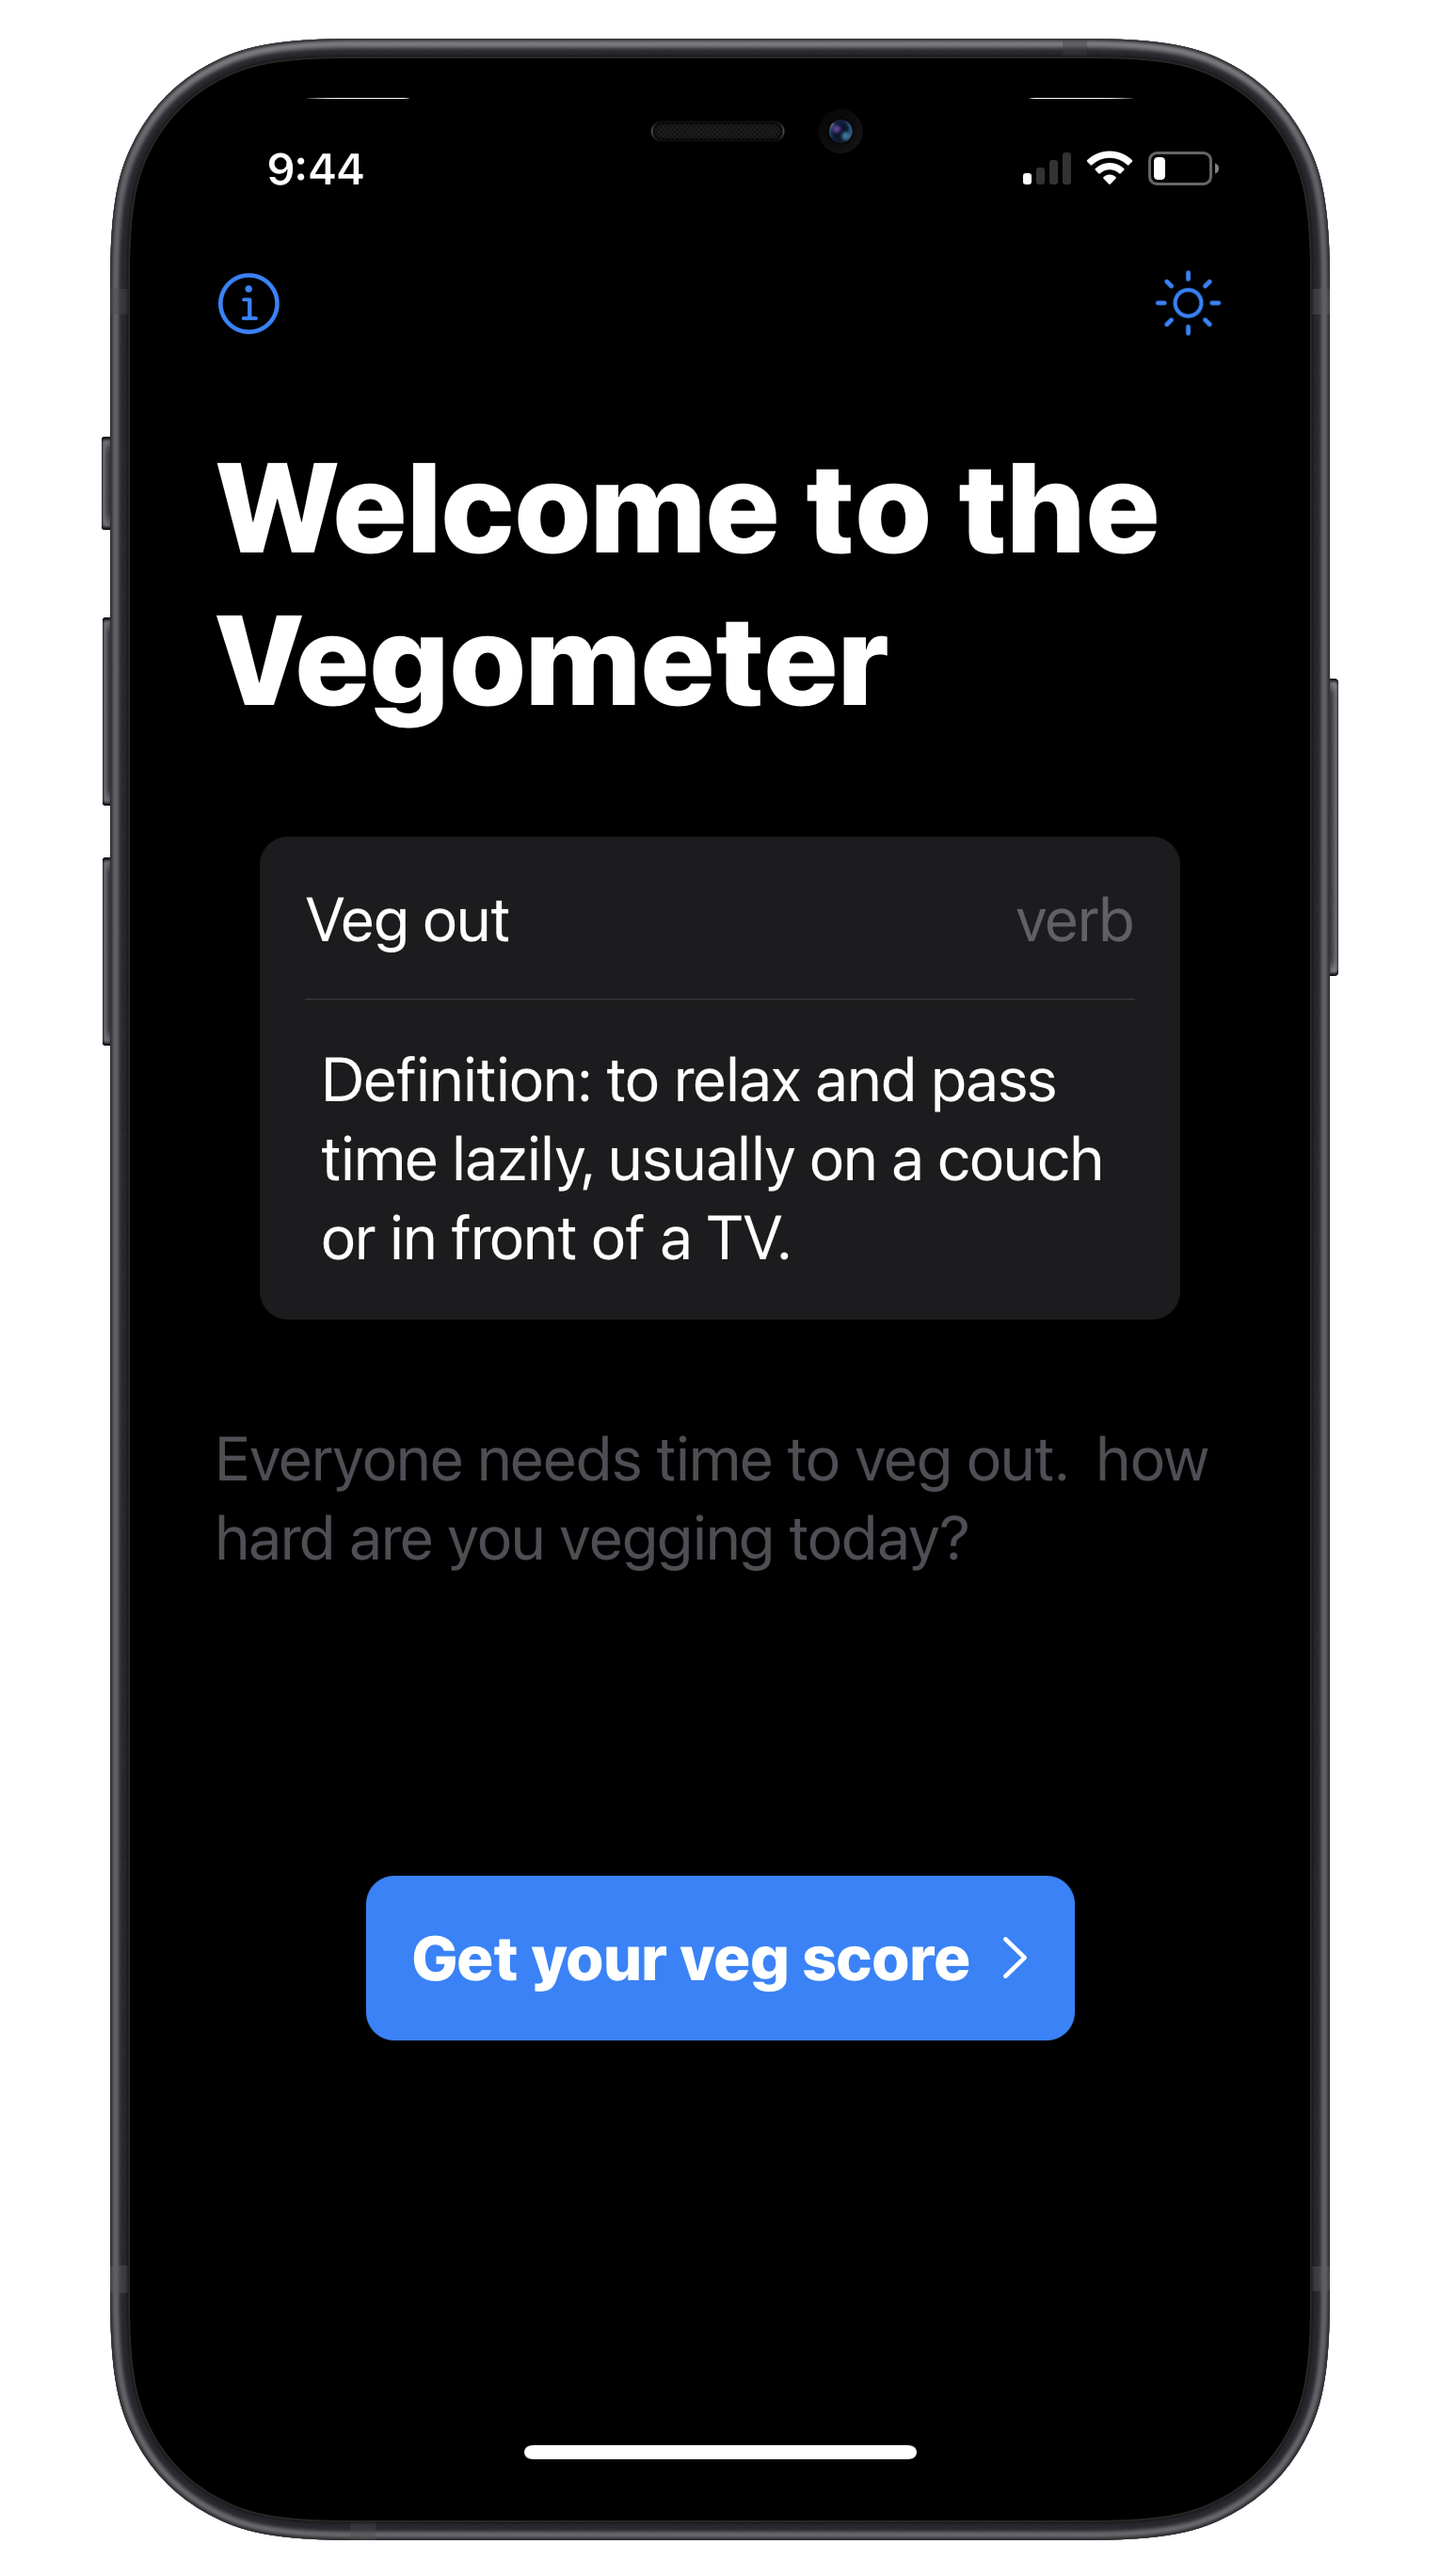
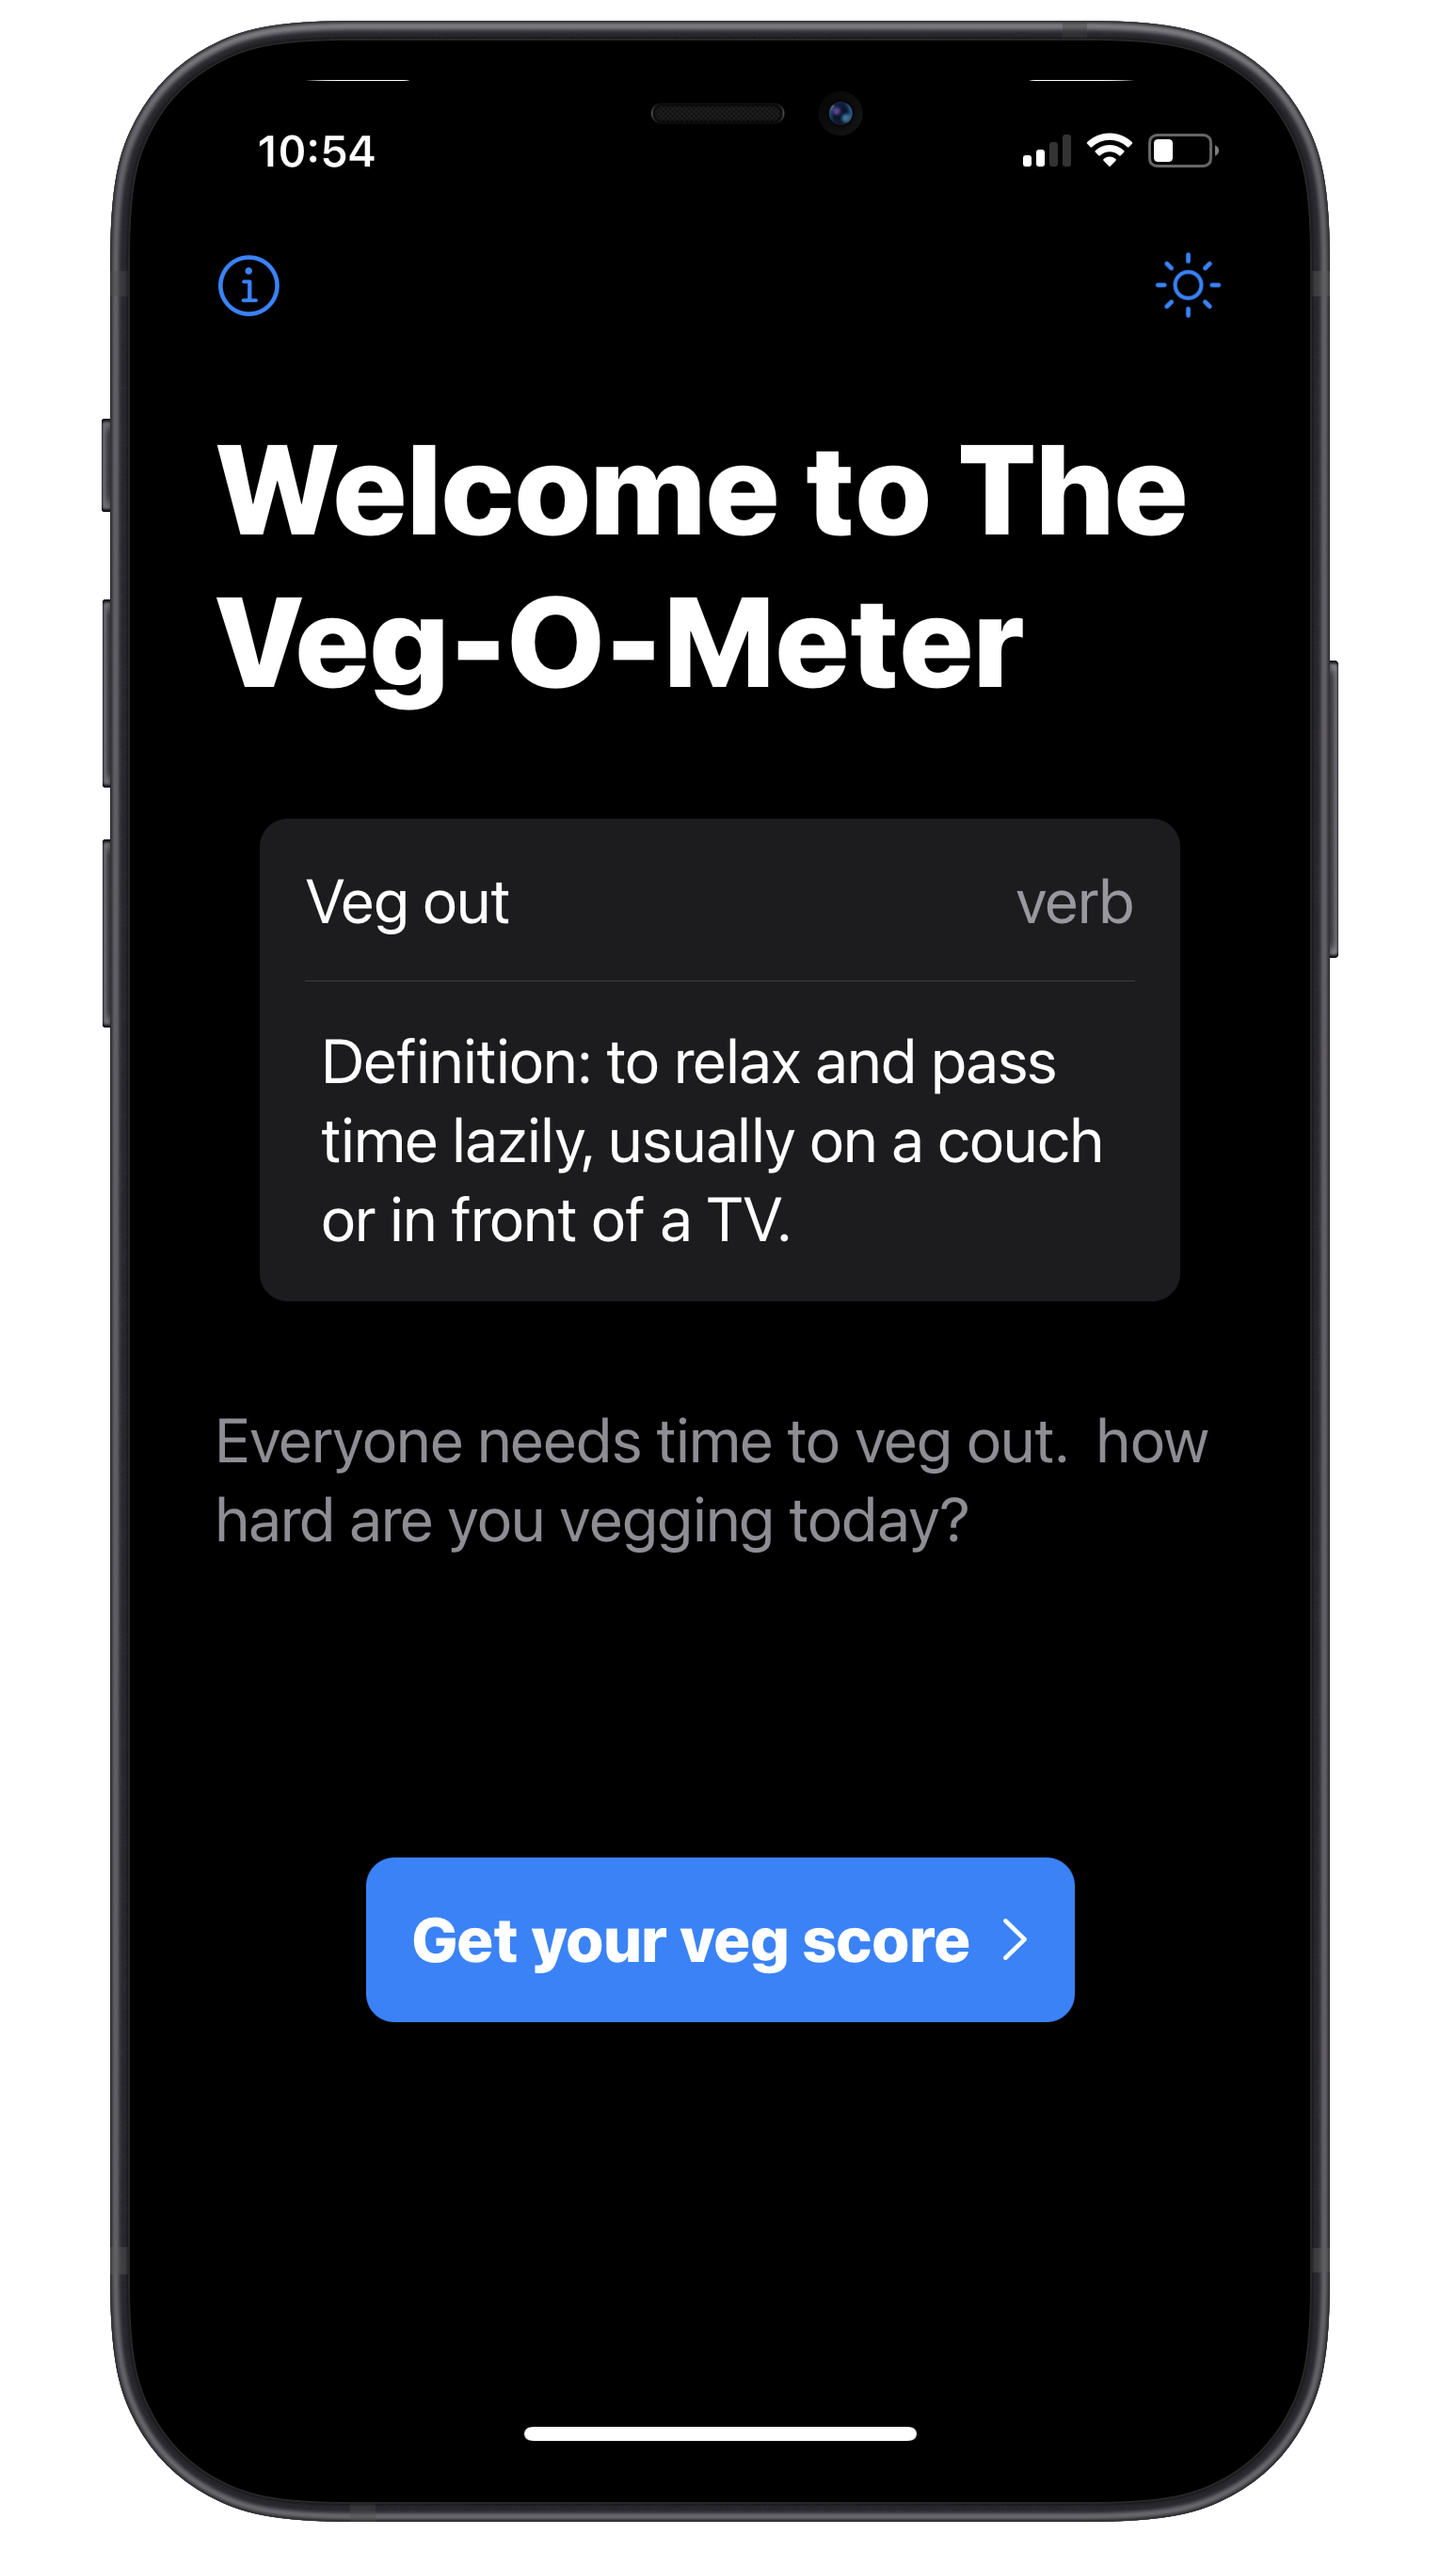
name update + screenshop update for vegometer page

diff --git a/src/App.tsx b/src/App.tsx
@@ -11,12 +11,12 @@ const App = (): JSX.Element => {
             <BrowserRouter>
                 <nav>
                     <Link className="navLink" to="/"><h2>Home</h2></Link>
-                    <Link className="navLink" to="/vegometer"><h2>Vegometer</h2></Link>
+                    <Link className="navLink" to="/veg-o-meter"><h2>Veg-O-Meter</h2></Link>
                 </nav>
 
                 <Switch>
                     <Route exact path="/" component={Home} />
-                    <Route path="/vegometer" component={Vegometer} />
+                    <Route path="/veg-o-meter" component={Vegometer} />
                 </Switch>
             </BrowserRouter>
         </div>
